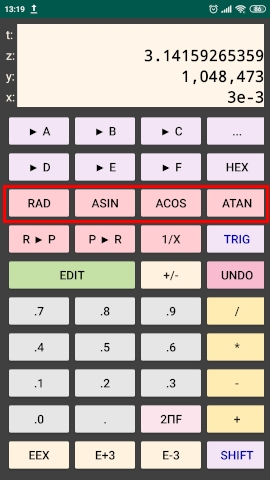
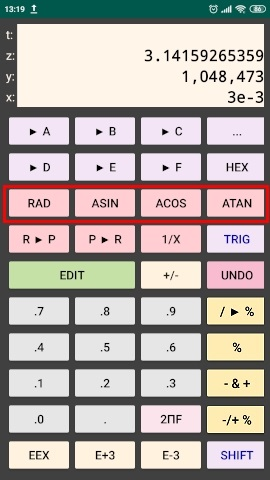
readme functions info

diff --git a/README.md b/README.md
@@ -9,8 +9,13 @@ After almost 40 years of using HP's RPN calculators, I programmed one for my And
 * **X//Y** = (X*Y)/(X+Y) = 2 resistors in parallel
 * **X/(X+Y)** = voltage divider
 * **2πF** = 2 * PI * frequency (the frequency is get from the **F** memory)
+* **/ ▶ %** = Y / X * 100
+* **%** = Y * X / 100
+* **- & +** = substract and add: y=(Y - X) | x=(Y + X)
+* **-/+ %** = substract and add a percent: y=(Y * (1 - X/100)) | x=(Y * (1 + X/100))
 * scientific notation with some tweaks...
 * **E+3** / **E-3** = add or subtract 3 from the exponent
+* **.0 to .9** = truncate X to N decimal places
 * polar to rectangular conversion
 * tabular key definition:
 
@@ -34,6 +39,12 @@ After almost 40 years of using HP's RPN calculators, I programmed one for my And
 
 
 **Some trigonometric functions:**
+
+* Angles in degrees
+* **DEG** = x * 180 / PI
+* **RAD** = x * PI / 180
+* **R ▶ P** = rectangular to polar (degrees)
+* **P ▶ R** = polar (degrees) to rectangular
 
 ![Trig layout](https://github.com/gabdub/Grpn/raw/master/screencapt/trig.jpg "TRIG layout")  ![SHIFT TRIG layout](https://github.com/gabdub/Grpn/raw/master/screencapt/trig_shift.jpg "SHIFT TRIG layout")
 
